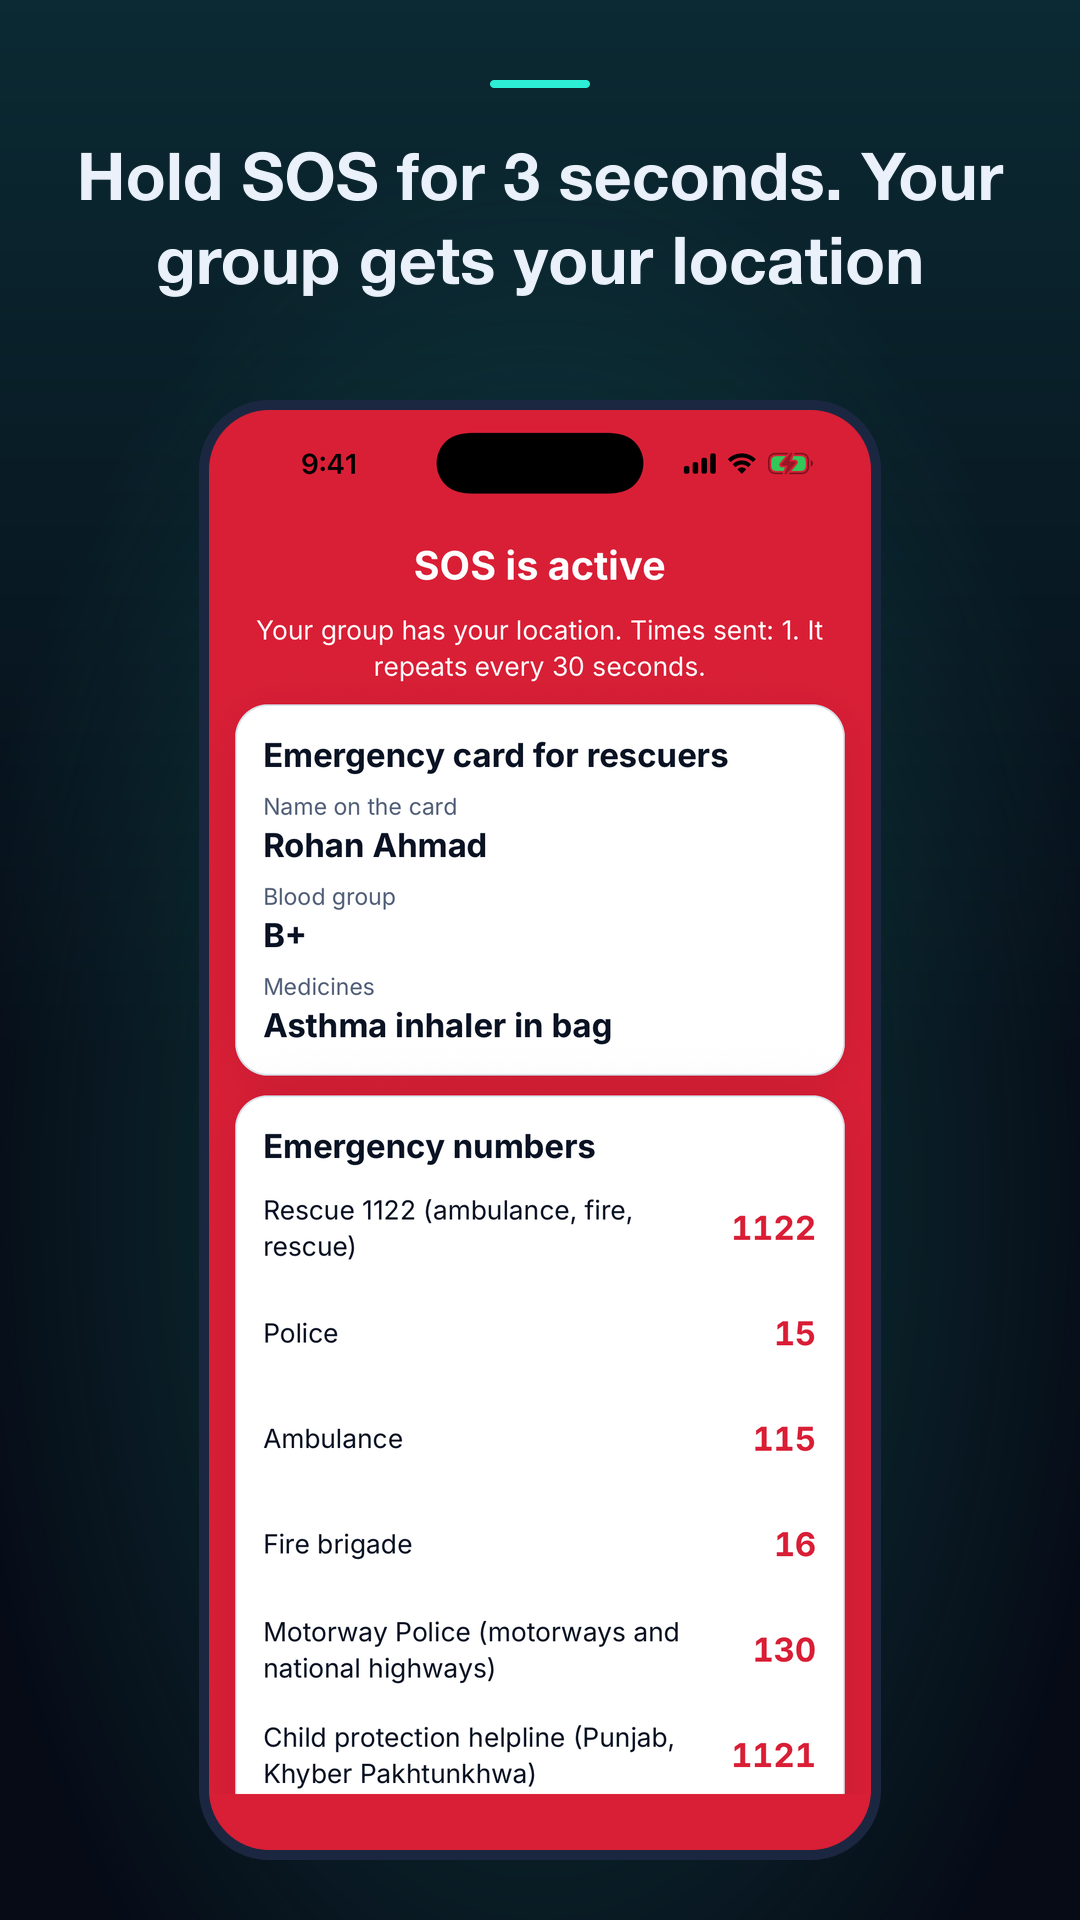
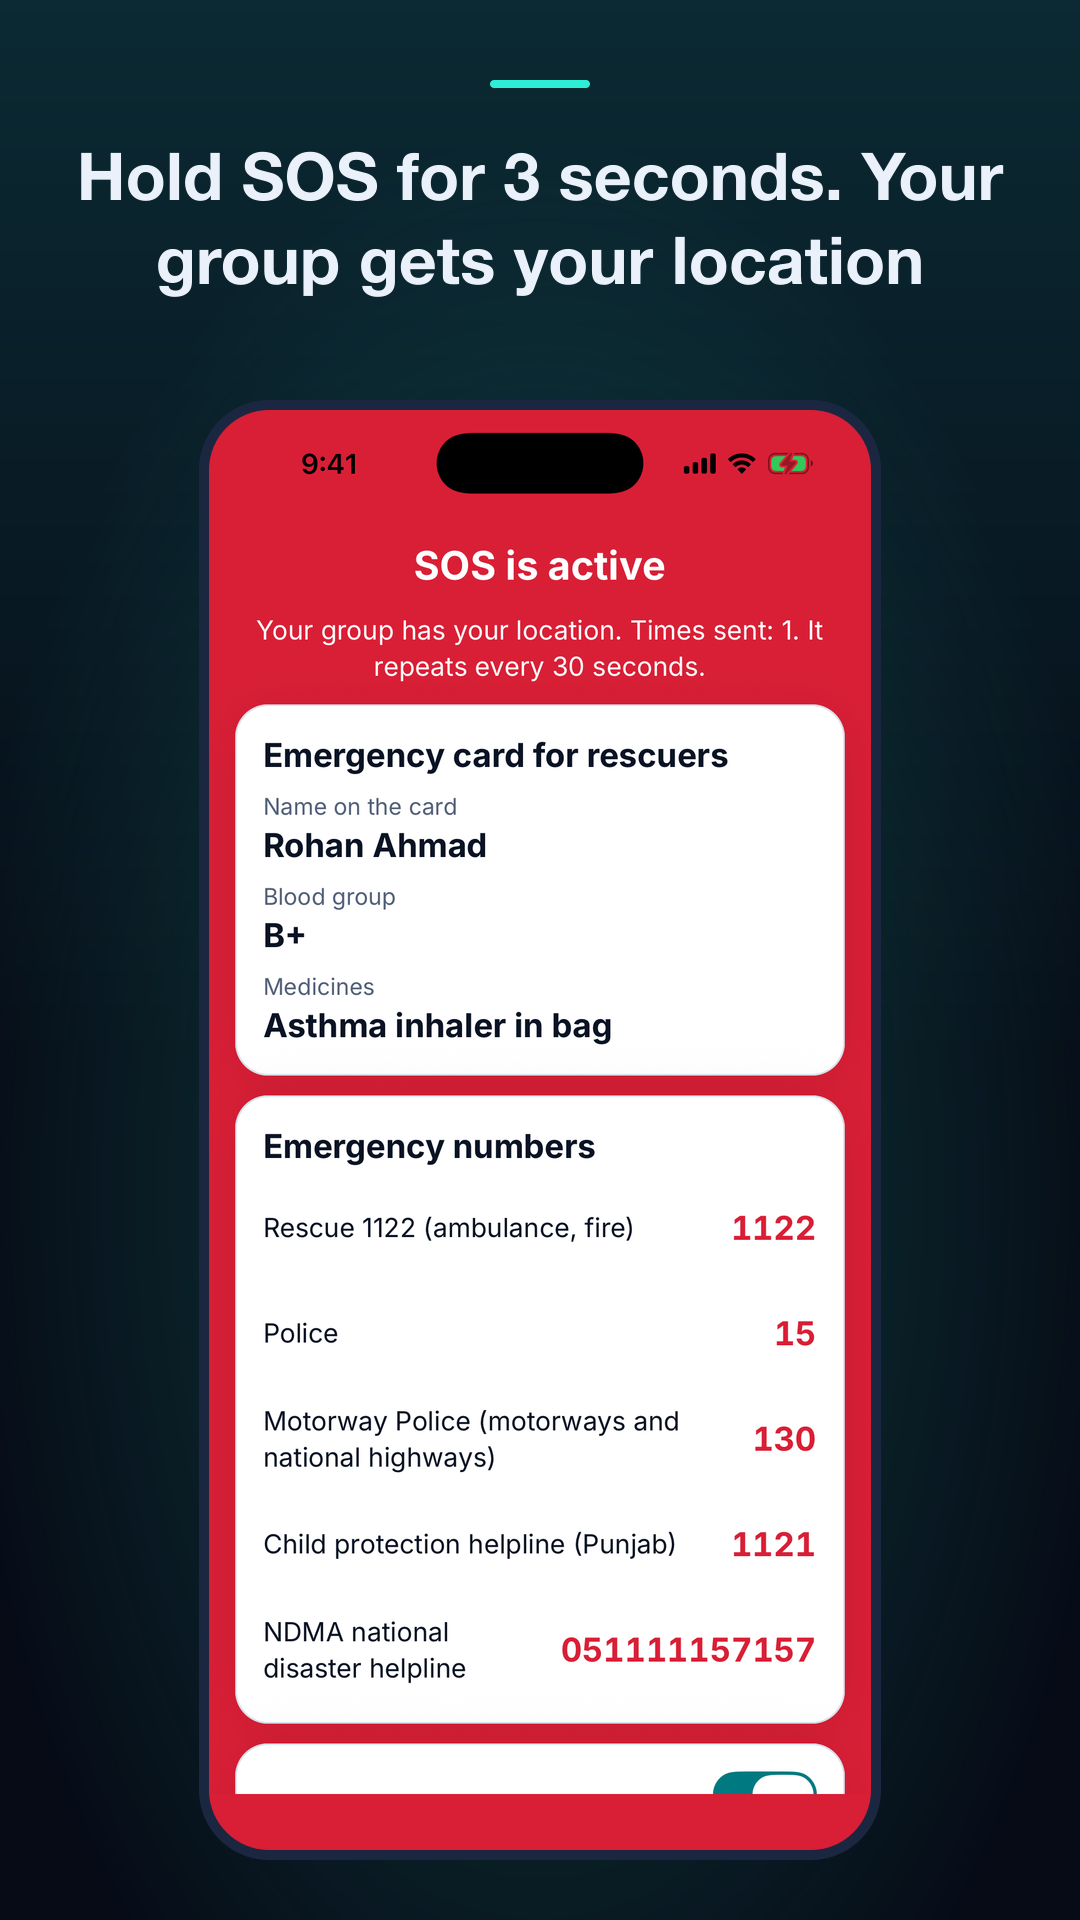
Release: decisions DEC-049 to DEC-051; listing and screenshots match English and Urdu and the verified numbers

diff --git a/docs/decisions.md b/docs/decisions.md
@@ -40,6 +40,9 @@ Every approved change, clarification and dependency for Mesh Radar. The PRD (/do
 - **DEC-046 Internal test builds** (2026-10-23). The `production` EAS profile runs the release gate (DEC-040) and stays blocked until people verify the emergency numbers, packs and translations. The `internal` profile is the same signed release bundle without the gate, for the Play internal testing track only, so the app can be tested on real phones while that verification happens. Unverified numbers keep their "unverified" label in the app. Never promote an `internal` build to production; build again with `production`.
 - **DEC-047 Native debug symbols in release bundles** (Rohan, 2026-10-23). Release bundles already run R8 with code and resource shrinking (DEC-041), and the R8 mapping file travels inside the app bundle. Google's guide (developer.android.com/build/include-native-symbols) adds native debug symbols with `android.buildTypes.release.ndk.debugSymbolLevel`; a small config plugin (`plugins/with-native-debug-symbols.js`) sets it to `SYMBOL_TABLE`, the level Google suggests when `FULL` would be large, so it survives `expo prebuild`. Play Console then shows function names for native crashes (Hermes, Skia, libsodium) without manual uploads.
 - **DEC-048 Demo data for screenshots** (2026-10-23). `EXPO_PUBLIC_DEMO=1` gives the in-memory engine a sample family group at Mina (an elder, a parent, a sibling and a child at realistic distances, two meeting points, a few messages, 12 nearby phones) for store screenshots and design work in Expo Go. The fake engine never runs in release builds (DEC-042), and no EAS profile sets the flag.
+- **DEC-049 Emergency numbers verified against official pages** (Rohan, 2026-10-25). Each number was checked by opening its official page (the country's government site or the UK GOV.UK travel advice); a number is `verified` only when the page shows it for that service, and the exact words are kept in its `evidence` field. 39 numbers passed. 24 whose pages could not be opened or did not show them were removed until a person confirms them (listed in `docs/emergency-numbers.md`); every country keeps a confirmed main line. India 108 was replaced by 102, the National Portal's National Ambulance Service. Labels and country notes now say only what the pages say.
+- **DEC-050 Release languages: English and Urdu** (Rohan, 2026-10-25). The other six languages were machine-drafted and PRD section 11 requires native review of safety text, so release builds offer only languages marked `released` in `src/i18n/status.json` (English and Urdu); development builds still show all eight for translators, and Android's per-app language list matches. Rohan reviews the 182 Urdu safety strings himself (`docs/urdu-review.md`) instead of a professional translator; Urdu is marked verified only after his approval. A language is added in an update by reviewing it and setting `released`.
+- **DEC-051 Event packs: dates checked, drafts allowed** (Rohan, 2026-10-25). Pack dates were checked against sources: the Islamic dates of Hajj, Umrah, Arbaeen and Muharram all match the official Umm al-Qura calendar, the trekking seasons match the Nepal Tourism Board, and Concerts and Raiwind Ijtema carry no dates; these seven are verified (their emergency numbers come from the verified list). Kumbh, Stadium, Durga Puja, Rath Yatra and Flood and blackout could not be fully confirmed and ship with their visible "Draft, not yet checked" label; the release check warns about them instead of blocking. Verification covers dates and numbers; tips and phrases remain general guidance from the cited sources. The app's Hijri dates now use Umm al-Qura through Intl (the arithmetic calendar showed Hajj starting on the 7th instead of the 8th).
 - **DEC-041 Keep rules for minified builds.** Release builds run R8 (`enableMinifyInReleaseBuilds`), and neither `jna` 5.17.0 nor `lazysodium-android` 5.2.0 ships ProGuard rules in its AAR. JNA's native dispatcher looks up classes, fields and methods by name, so the engine module ships consumer rules (`modules/mesh-engine/android/proguard-rules.pro`): the rules from JNA's FAQ ("JNA on Android") and a keep for `com.goterl.lazysodium.**`, as the lazysodium maintainers point to in terl/lazysodium-android#32. Without them a release build either fails on missing `java.awt` classes or crashes on the first libsodium call (A1).
 
 ## Safety and Play compliance

diff --git a/docs/play-console.md b/docs/play-console.md
@@ -21,14 +21,14 @@ Copy-ready values for publishing Mesh Radar. Policy pages change, so read Play C
 | Short description (80) | See your group on a radar, chat and send SOS with no internet or signal. |
 | App icon 512 x 512 | `assets/store/play-icon-512.png` |
 | Feature graphic 1024 x 500 | `assets/store/feature-graphic-1024x500.png` |
-| Phone screenshots | `assets/store/screenshots/01` to `08` (1080 x 1920, 9:16, captions in English), upload in that order. `09` and `10` are spares. Taken from the app with sample data (Expo Go, `EXPO_PUBLIC_DEMO=1`); retake on an Android phone and in Urdu, Arabic, Hindi and Bengali when you can |
+| Phone screenshots | `assets/store/screenshots/01` to `08` (1080 x 1920, 9:16, captions in English), upload in that order. `09` is a spare. Taken from the app with sample data (Expo Go, `EXPO_PUBLIC_DEMO=1`); retake on an Android phone and in Urdu, Arabic, Hindi and Bengali when you can |
 | Category | Maps & Navigation (alternative: Travel & Local) |
 | Tags | Pick those closest to: offline, family safety, location sharing, group travel, navigation |
 | Email | creaeza7@gmail.com |
 | Website | https://creaeza.com |
 | Privacy policy | https://creaeza.com/mesh-radar-privacy/ |
 
-Full description (4000 characters maximum; this one is 3,876):
+Full description (4000 characters maximum; this one is 3,883):
 
 ```text
 Mesh Radar keeps your family and friends together when the mobile network fails: in big crowds, on mountain trails, in floods and during blackouts.
@@ -46,7 +46,7 @@ FIND YOUR PEOPLE ON A RADAR
 MESSAGES THAT WORK WITHOUT A NETWORK
 - Group chat and direct messages, encrypted end to end. Phones that pass your messages along cannot read them.
 - One-tap quick replies: I'm OK, Wait for me, Come to me, Meet at a meeting point, Need water, Need medical help, Low battery.
-- Quick replies arrive in the reader's own language, so an Urdu "Wait for me" reaches an Indonesian phone in Indonesian.
+- Quick replies arrive in the reader's own language, so a "Wait for me" sent in Urdu reaches an English phone in English.
 - Messages wait for up to 6 hours and are delivered when the other person comes back into range.
 
 SAFETY FEATURES ARE FREE, ALWAYS
@@ -63,7 +63,7 @@ Ready event packs for Hajj, Umrah, Arbaeen, Raiwind Ijtema, Muharram, Kumbh and 
 
 EASY FOR EVERYONE
 - Elder mode: larger text and three big buttons, Find family, Call for help and I'm OK.
-- 8 languages: English, Urdu, Arabic, Hindi, Bengali, Indonesian, Malay and Turkish, with right-to-left layouts.
+- English and Urdu, with a right-to-left layout for Urdu. More languages are coming after native speakers review them.
 - Light, dark and a high-contrast Sunlight theme for bright outdoor light.
 - Power modes from live radar to an ultra battery saver.
 

diff --git a/README.md b/README.md
@@ -23,7 +23,7 @@ The product source of truth is [docs/PRD.md](docs/PRD.md). Every approved change
 
 All the code and content is written. The JavaScript app, the Kotlin mesh core (with its simulator) and the Worker pass their checks and tests. What is left before a Play release:
 
-1. **Verify safety content.** Emergency numbers ([docs/emergency-numbers.md](docs/emergency-numbers.md)), the 12 event packs ([docs/event-packs.md](docs/event-packs.md)) and all 7 translations ([docs/translation-review.md](docs/translation-review.md)) are drafts marked unverified. `npm run check:release` blocks a production build until each is verified.
+1. **Review the Urdu safety text** ([docs/urdu-review.md](docs/urdu-review.md)). Emergency numbers are verified against official pages (DEC-049), seven event packs are verified and five ship as labelled drafts (DEC-051), and release builds offer English and Urdu (DEC-050). The Urdu review is the last item `npm run check:release` blocks on.
 2. **Open decisions:** none. DEC-027 (separation alerts are free) and DEC-029 (no flags in the language picker) are closed in [docs/decisions.md](docs/decisions.md).
 3. **Record voice clips** for the 7 quick replies in each language (DEC-032).
 4. **Build on a laptop and test on phones** ([docs/build-android.md](docs/build-android.md)). The JavaScript app, the Kotlin mesh core and the Worker are checked in CI; the full Android build has not yet completed anywhere, so the first laptop build is also the first full compile of the native module.
